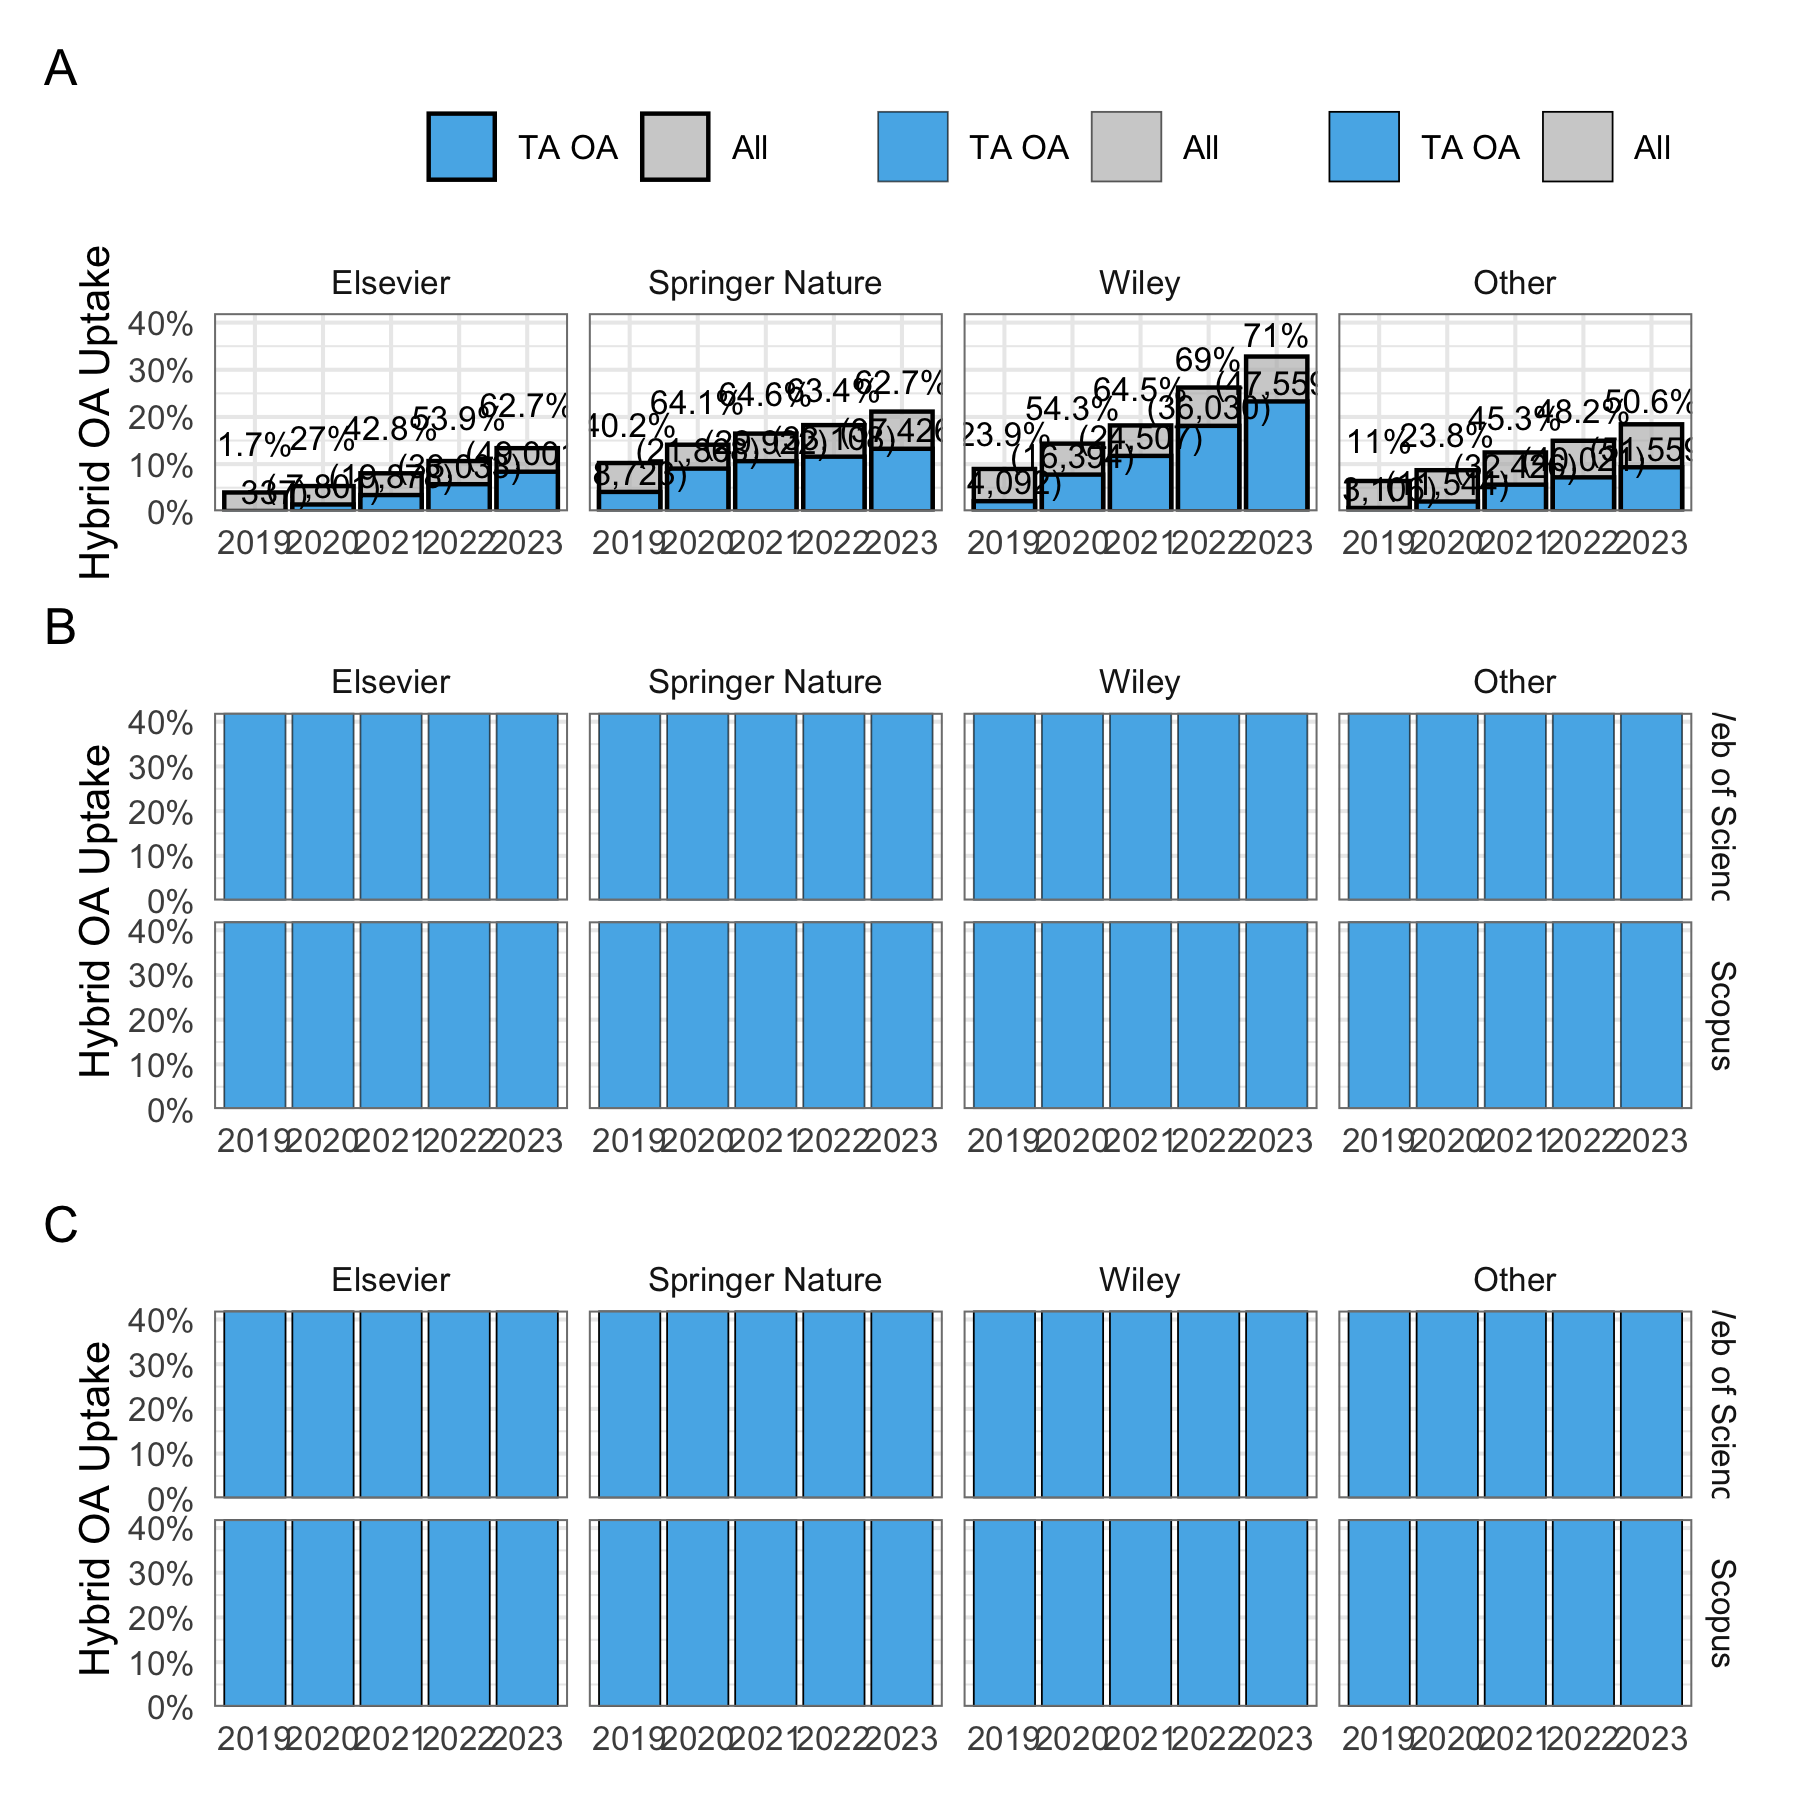
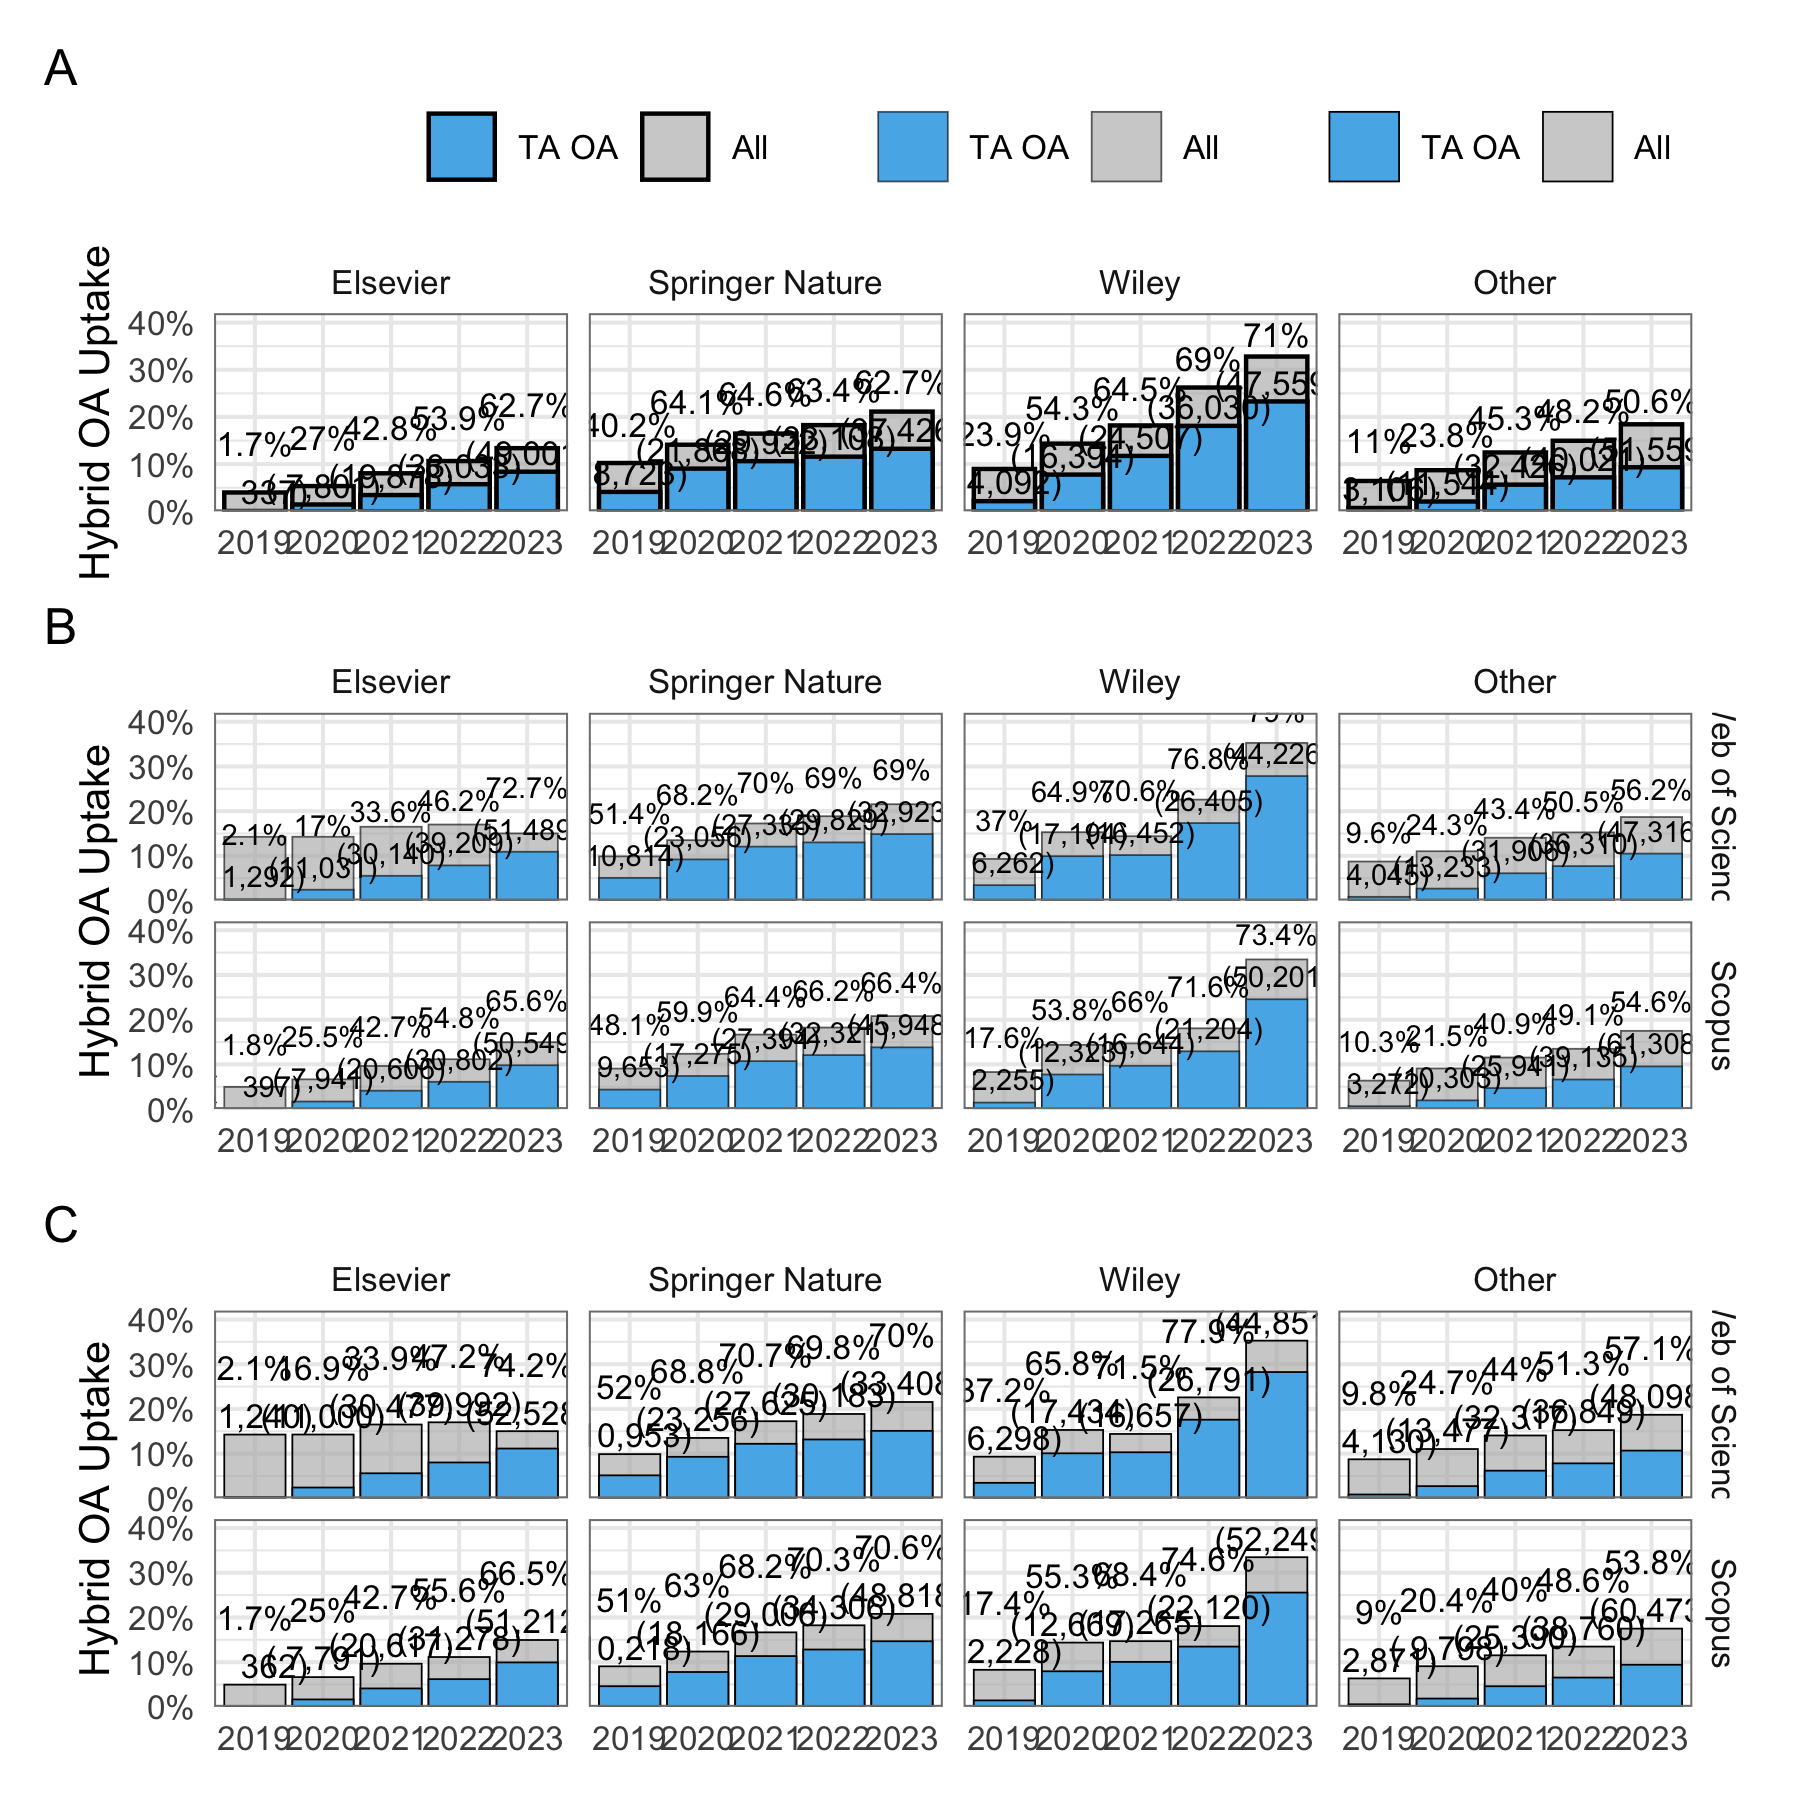
Fix stat calculation

Changed region(s): [[0.1244, 0.3733, 0.9333, 0.6222], [0.1244, 0.7156, 0.9333, 0.9644]]

diff --git a/analysis/results.md b/analysis/results.md
@@ -570,7 +570,7 @@ jn_age <- jn_ind |>
 DOI coverage check
 
 ``` r
-jn_overlap <- jn_upset |> 
+jn_overlap <- jn_upset_articles |> 
   filter(Crossref == TRUE, WoS == TRUE, Scopus == TRUE)
 
 miss_doi <- cr_df |>
@@ -641,10 +641,10 @@ scp_ta_df <-  scp_jn_by_year |>
 # HOAD
 hoad_jn_by_year_ <- active_jns_with_oa |>
   mutate(cr_year = as.numeric(as.character(cr_year))) |>
-  distinct(issn_l, cr_year, n_articles = jn_all)
+  distinct(issn_l, cr_year, n = jn_all)
 hoad_oa_jn_by_year <- hoaddata::cc_articles |>
   group_by(issn_l, cr_year) |>
-  summarise(n_oa_articles = n_distinct(doi))
+  summarise(oa_articles = n_distinct(doi))
 
 hoad_jn_by_year <- inner_join(hoad_jn_by_year_, hoad_oa_jn_by_year, by = c("issn_l", "cr_year"))
 
@@ -667,7 +667,7 @@ hoad_ta_df <- hoad_jn_by_year |>
   # https://stackoverflow.com/a/73621978
   {\(.) {replace(.,is.na(.),0)}}() |>
   mutate(src = "HOAD") |>
-  distinct(issn_l, earliest_year = cr_year, n_oa_articles, n_articles, ta_articles = ta_first_author_articles, ta_first_author_articles, ta_oa_articles = ta_oa_first_author_articles, ta_oa_first_author_articles, src) 
+  distinct(issn_l, earliest_year = cr_year, n, oa_articles, ta_articles = ta_first_author_articles, ta_first_author_articles, ta_oa_articles = ta_oa_first_author_articles, ta_oa_first_author_articles, src) 
 
 uptake_df <- bind_rows(wos_ta_df, scp_ta_df, hoad_ta_df) |>
   mutate_if(is.numeric, ~replace(., is.na(.), 0))
@@ -679,8 +679,8 @@ uptake_by_year <- uptake_df |>
   mutate(earliest_year = as.character(earliest_year)) |>
   group_by(earliest_year, src) |>
   summarize(
-    n_articles = sum(n_articles),
-    n_oa_articles = sum(n_oa_articles),
+    n_articles = sum(n),
+    n_oa_articles = sum(oa_articles),
     ta_oa_first_author_articles = sum(ta_oa_first_author_articles),
     ta_oa_corresponding_author_articles = sum(ta_oa_corresponding_author_articles)
   )
@@ -835,8 +835,8 @@ uptake_jn_five_jns <- uptake_df |>
   filter(earliest_year != "2018") |>
   group_by(issn_l, src) |>
   summarize(
-    n_articles = sum(n_articles),
-    n_oa_articles = sum(n_oa_articles),
+    n_articles = sum(n),
+    n_oa_articles = sum(oa_articles),
     ta_oa_first_author_articles = sum(ta_oa_first_author_articles),
     ta_oa_corresponding_author_articles = sum(ta_oa_corresponding_author_articles)
   )
@@ -883,8 +883,8 @@ uptake_publisher_by_year <- uptake_publisher |>
   mutate(earliest_year = as.character(earliest_year)) |>
   group_by(earliest_year, src, publisher) |>
   summarize(
-    n_articles = sum(n_articles),
-    n_oa_articles = sum(n_oa_articles),
+    n_articles = sum(n),
+    n_oa_articles = sum(oa_articles),
     ta_oa_first_author_articles = sum(ta_oa_first_author_articles),
     ta_oa_corresponding_author_articles = sum(ta_oa_corresponding_author_articles)
   )
